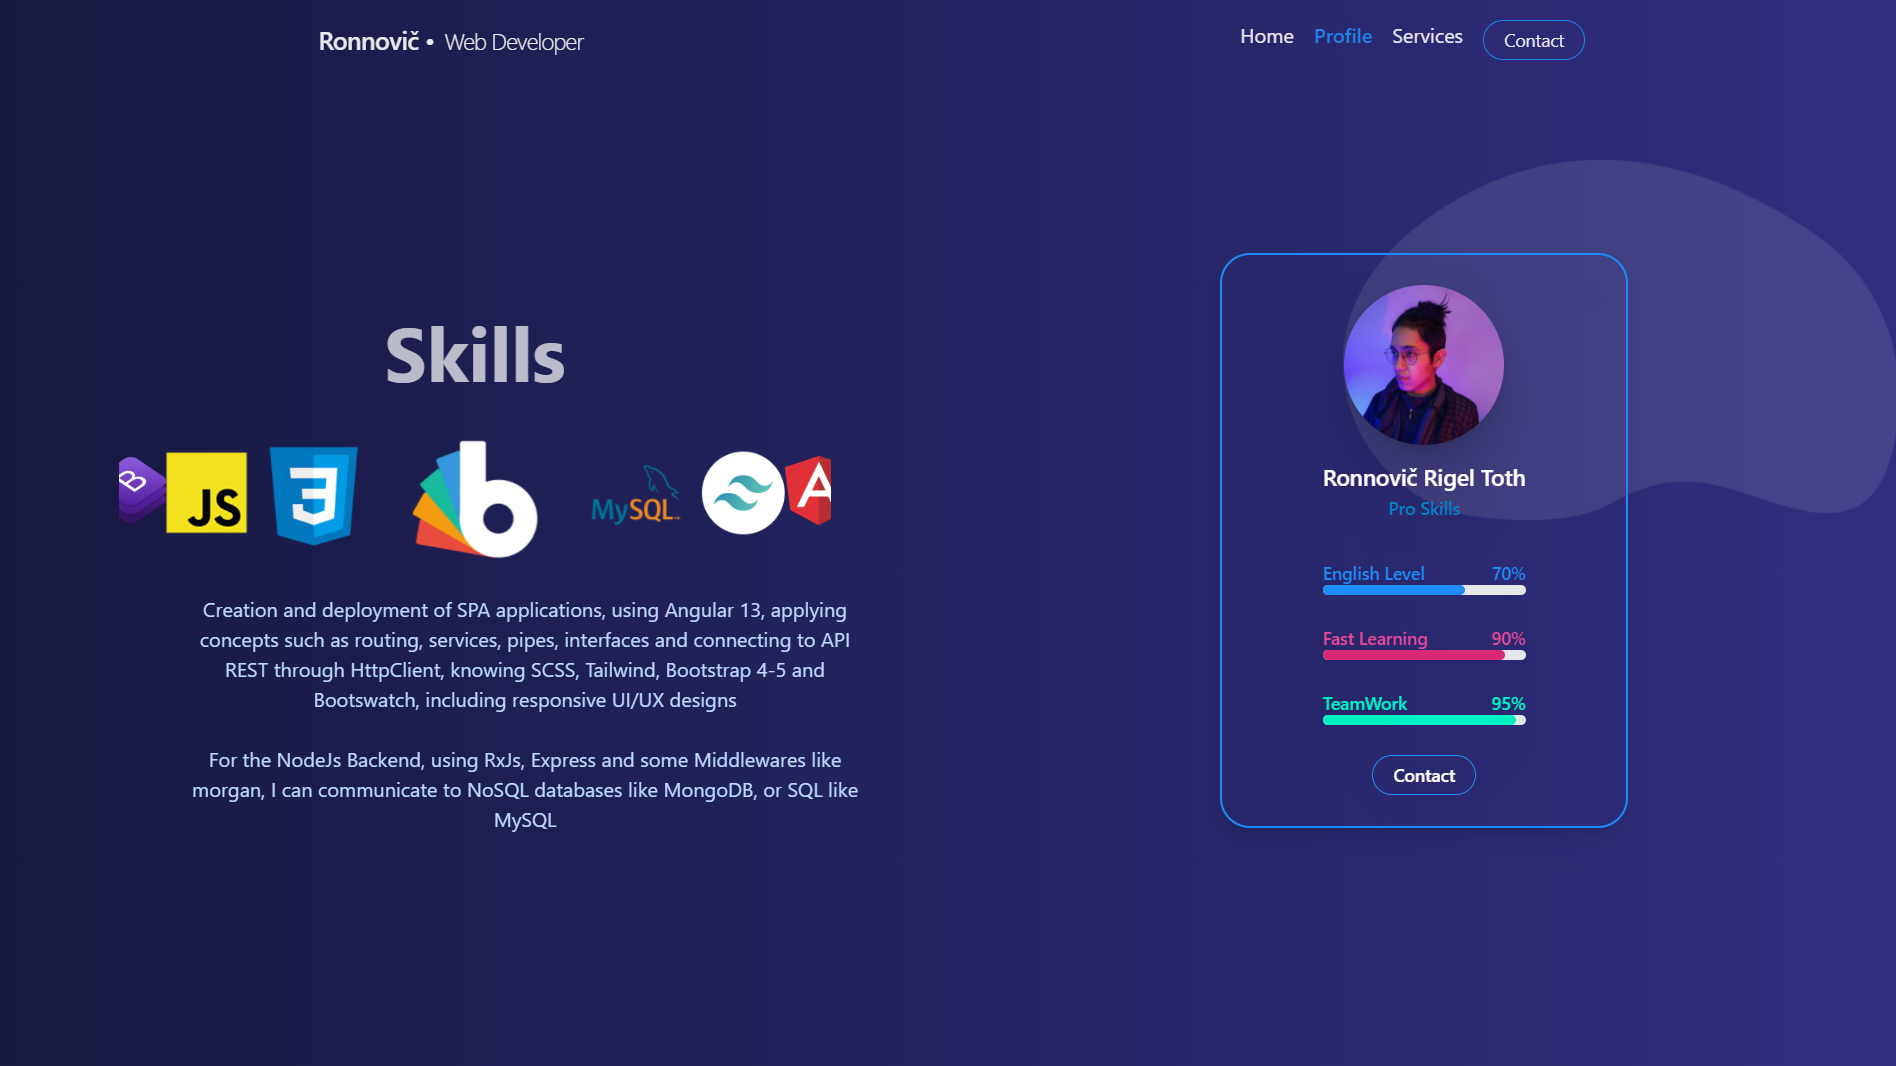
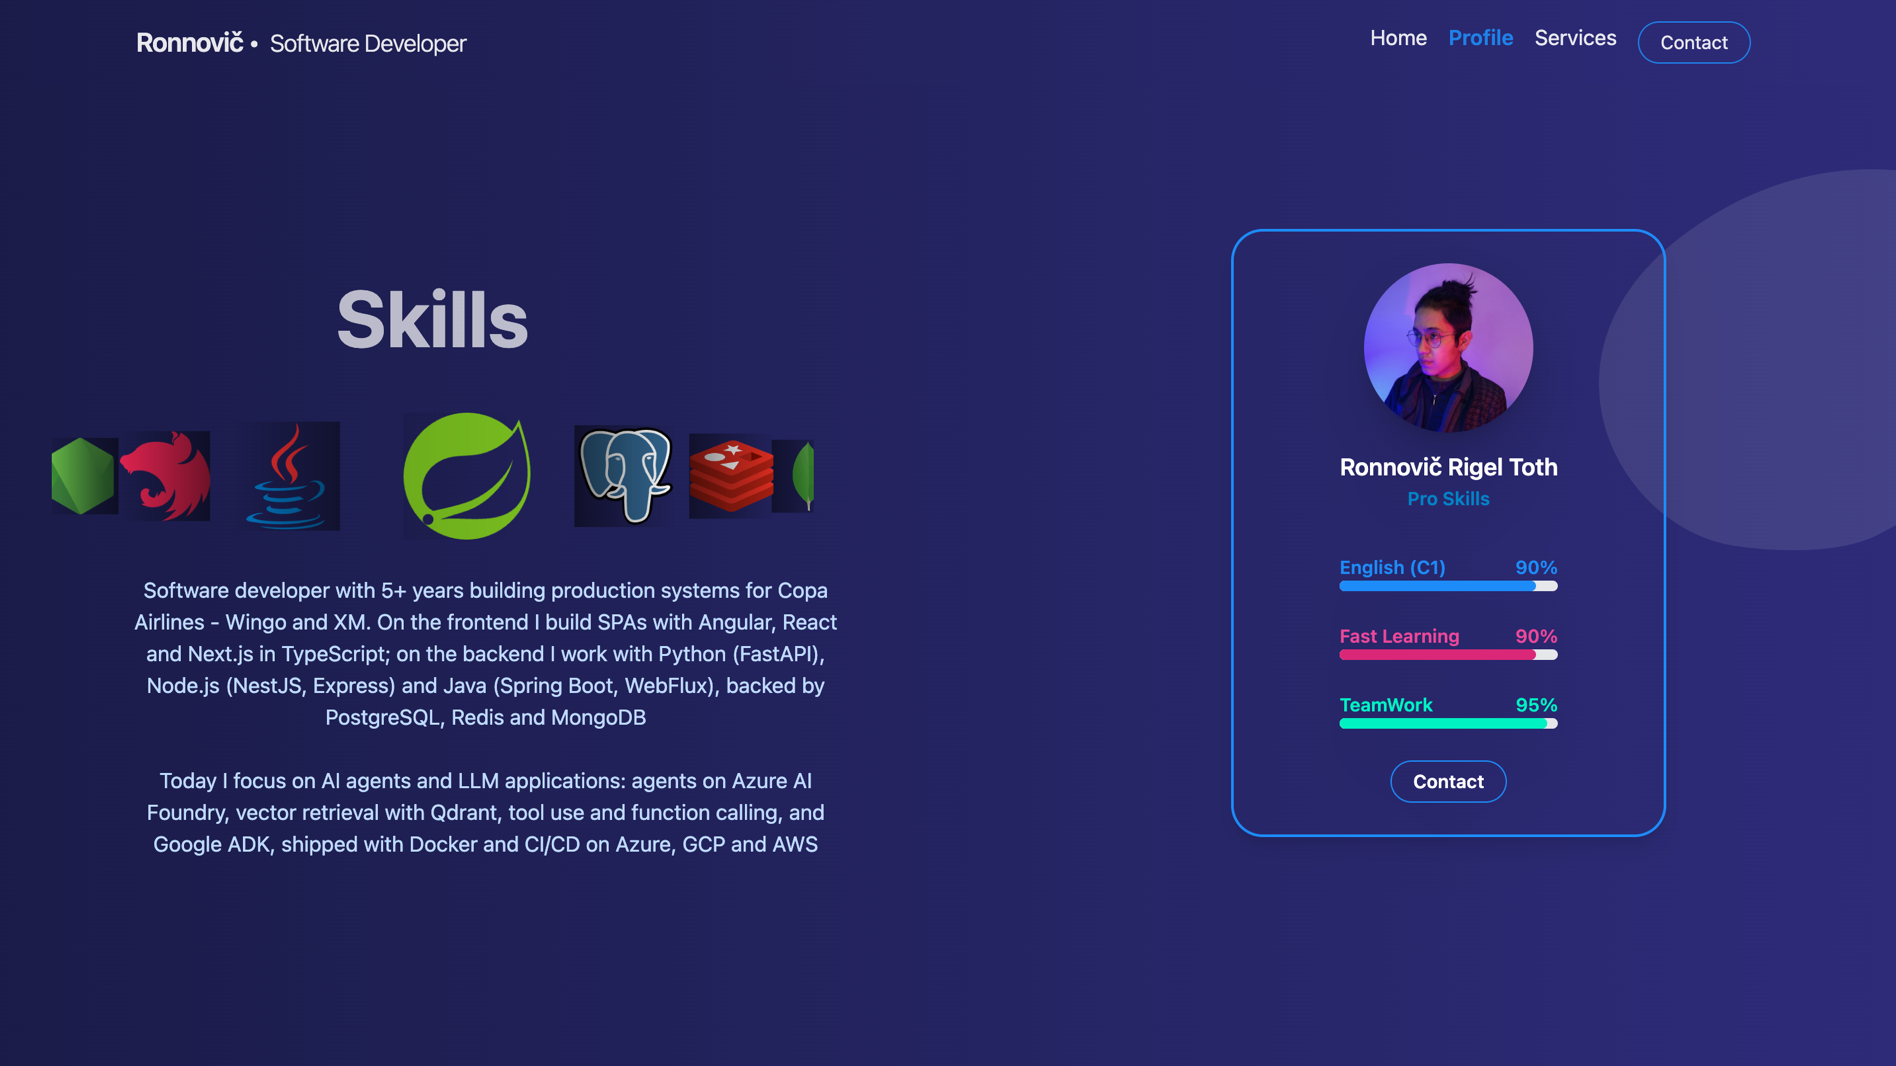
Update technologies and images
- Skills carousel now shows current stack (20 SVG logos from devicon)
- Home cards: Frontend, Backend, AI Agents & LLMs
- Refresh profile preview screenshot; drop unused imgwt PNGs

diff --git a/src/app/components/services/neon-card.service.ts b/src/app/components/services/neon-card.service.ts
@@ -7,67 +7,33 @@ import { NeonCardModel } from '../models/neon-card.model';
 export class NeonCardService {
 
   cards: NeonCardModel[] = [
-
     {
-      img: './assets/imgwt/ng.png',
-      // alt: '',
+      img: './assets/tech/angular.svg',
       color: "bl",
       index: 0,
-      title: 'Angular',
-      body: 'Experience developing SPA web apps using concepts such as Lazy loading, routing, services, pipes, connecting with REST APIs - Get Post Delete Update, authorization authentication and much more',
+      title: 'Frontend',
+      body: 'SPAs in Angular, React and Next.js with TypeScript: lazy loading, routing, state with RxJS, REST integrations, auth flows and responsive UI with Tailwind.',
       animation: 'fade-right',
-      link: 'https://angular.io/'
+      link: 'https://angular.dev/'
     },
     {
-      img: './assets/imgwt/nodejs.png',
-      // alt: '',
+      img: './assets/tech/python.svg',
       color: "grn",
       index: 1,
-      title: 'Node Js',
-      body: 'Experience in REST API backend development, using tools like Rxjs, express, json web token, middlewares, controllers, routes, babel, typescript, connecting to databases like Mongodb or MySQL and much more.',
+      title: 'Backend',
+      body: 'APIs with Python (FastAPI), Node.js (NestJS, Express) and Java (Spring Boot, WebFlux), backed by PostgreSQL, Redis and MongoDB, shipped with Docker and CI/CD.',
       animation: 'fade-left',
-      link: 'https://nodejs.org/'
+      link: 'https://fastapi.tiangolo.com/'
     },
     {
-      img: './assets/imgwt/github.png',
-      // alt: '',
+      img: './assets/tech/azure.svg',
       color: "prpl",
       index: 2,
-      title: 'Git & GitHub',
-      body: 'Experience in code versioning software and repositories, both remote and local, knowing how commit, pull, push, log and many other commands work, including GitHub Pages',
+      title: 'AI Agents & LLMs',
+      body: 'Agents on Azure AI Foundry and Google ADK, vector retrieval with Qdrant, tool use and function calling, deployed on Azure, GCP and AWS.',
       animation: 'fade-right',
-      link: 'https://git-scm.com/'
-    },
-   /*  {
-      img: './assets/imgwt/bootstrap.png',
-      // alt: '',
-      color: "prpl",
-      index: 3,
-      title: 'Bootstrap',
-      body: 'Experience in code versioning software and repositories, both remote and local, knowing how commit, pull, push, log and many other commands work, including GitHub Pages',
-      animation: 'fade-right',
-      link: 'https://git-scm.com/'
-    },
-    {
-      img: './assets/imgwt/rxjs.png',
-      // alt: '',
-      color: "pnk",
-      index: 4,
-      title: 'Reactive Js',
-      body: 'Experience in code versioning software and repositories, both remote and local, knowing how commit, pull, push, log and many other commands work, including GitHub Pages',
-      animation: 'fade-right',
-      link: 'https://git-scm.com/'
-    },
-    {
-      img: './assets/imgwt/mysql.png',
-      // alt: '',
-      color: "bl",
-      index: 5,
-      title: 'Git & GitHub',
-      body: 'Experience in code versioning software and repositories, both remote and local, knowing how commit, pull, push, log and many other commands work, including GitHub Pages',
-      animation: 'fade-right',
-      link: 'https://git-scm.com/'
-    }, */
+      link: 'https://ai.azure.com/'
+    }
   ]
   constructor() {}
 

diff --git a/src/app/pages/profile/profile.component.ts b/src/app/pages/profile/profile.component.ts
@@ -23,46 +23,26 @@ export class ProfileComponent implements OnInit {
   }
 
   Imgs = [
-    {
-      src: './assets/imgwt/ng.png',
-      alt: 'Angular',
-    }, {
-      src: './assets/imgwt/nodejs.png',
-      alt: 'NodeJs'
-    }, {
-      src: './assets/imgwt/rxjs.png',
-      alt: 'RxJs'
-    }, {
-      src: './assets/imgwt/mdb.png',
-      alt: 'MongoDB'
-    }, {
-      src: './assets/imgwt/typescript.png',
-      alt: 'Typescript'
-    }, {
-      src: './assets/imgwt/git.png',
-      alt: 'Git'
-    }, {
-      src: './assets/imgwt/github.png',
-      alt: 'GitHub'
-    }, {
-      src: './assets/imgwt/bootstrap.png',
-      alt: 'Bootstrap'
-    }, {
-      src: './assets/imgwt/js.png',
-      alt: 'JavaScript'
-    }, {
-      src: './assets/imgwt/css.png',
-      alt: 'CSS'
-    }, {
-      src: './assets/imgwt/bootswatch.png',
-      alt: 'Bootswatch'
-    }, {
-      src: './assets/imgwt/mysql.png',
-      alt: 'MySQL'
-    }, {
-      src: './assets/imgwt/tailwind.png',
-      alt: 'TalwindCSS'
-    }
+    { src: './assets/tech/angular.svg', alt: 'Angular' },
+    { src: './assets/tech/react.svg', alt: 'React' },
+    { src: './assets/tech/nextjs.svg', alt: 'Next.js' },
+    { src: './assets/tech/typescript.svg', alt: 'TypeScript' },
+    { src: './assets/tech/python.svg', alt: 'Python' },
+    { src: './assets/tech/fastapi.svg', alt: 'FastAPI' },
+    { src: './assets/tech/nodejs.svg', alt: 'Node.js' },
+    { src: './assets/tech/nestjs.svg', alt: 'NestJS' },
+    { src: './assets/tech/java.svg', alt: 'Java' },
+    { src: './assets/tech/spring.svg', alt: 'Spring Boot' },
+    { src: './assets/tech/postgresql.svg', alt: 'PostgreSQL' },
+    { src: './assets/tech/redis.svg', alt: 'Redis' },
+    { src: './assets/tech/mongodb.svg', alt: 'MongoDB' },
+    { src: './assets/tech/docker.svg', alt: 'Docker' },
+    { src: './assets/tech/azure.svg', alt: 'Azure' },
+    { src: './assets/tech/googlecloud.svg', alt: 'Google Cloud' },
+    { src: './assets/tech/amazonwebservices.svg', alt: 'AWS' },
+    { src: './assets/tech/git.svg', alt: 'Git' },
+    { src: './assets/tech/github.svg', alt: 'GitHub' },
+    { src: './assets/tech/tailwindcss.svg', alt: 'Tailwind CSS' }
   ]
 
   constructor() { }
